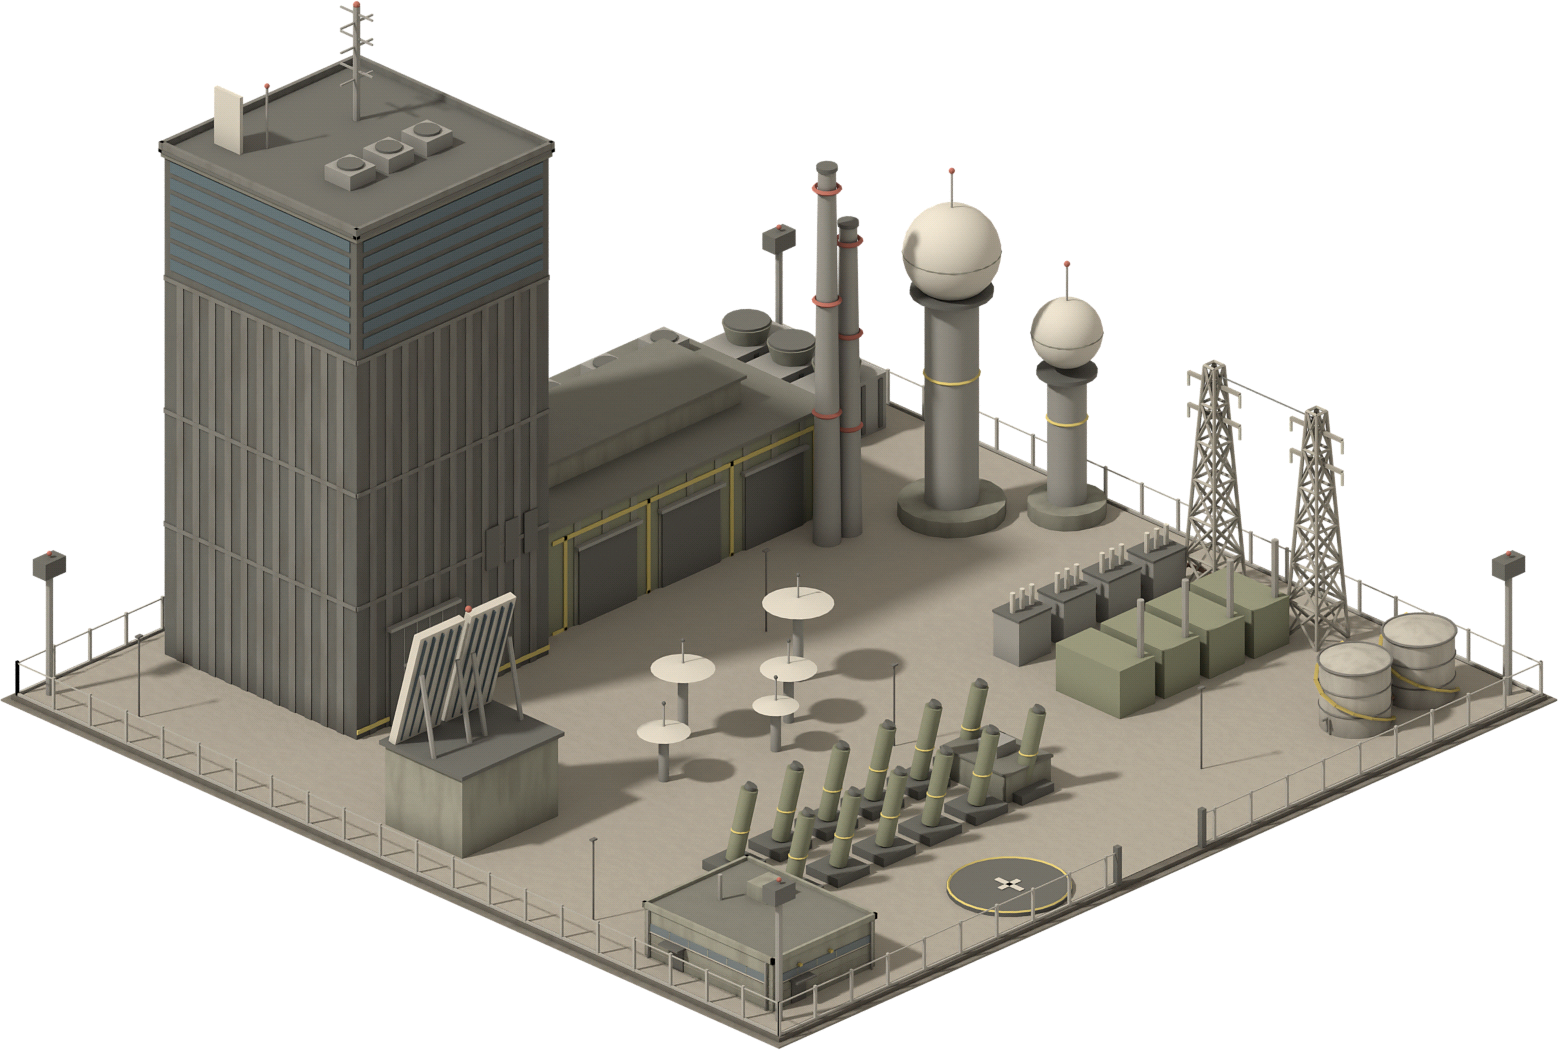
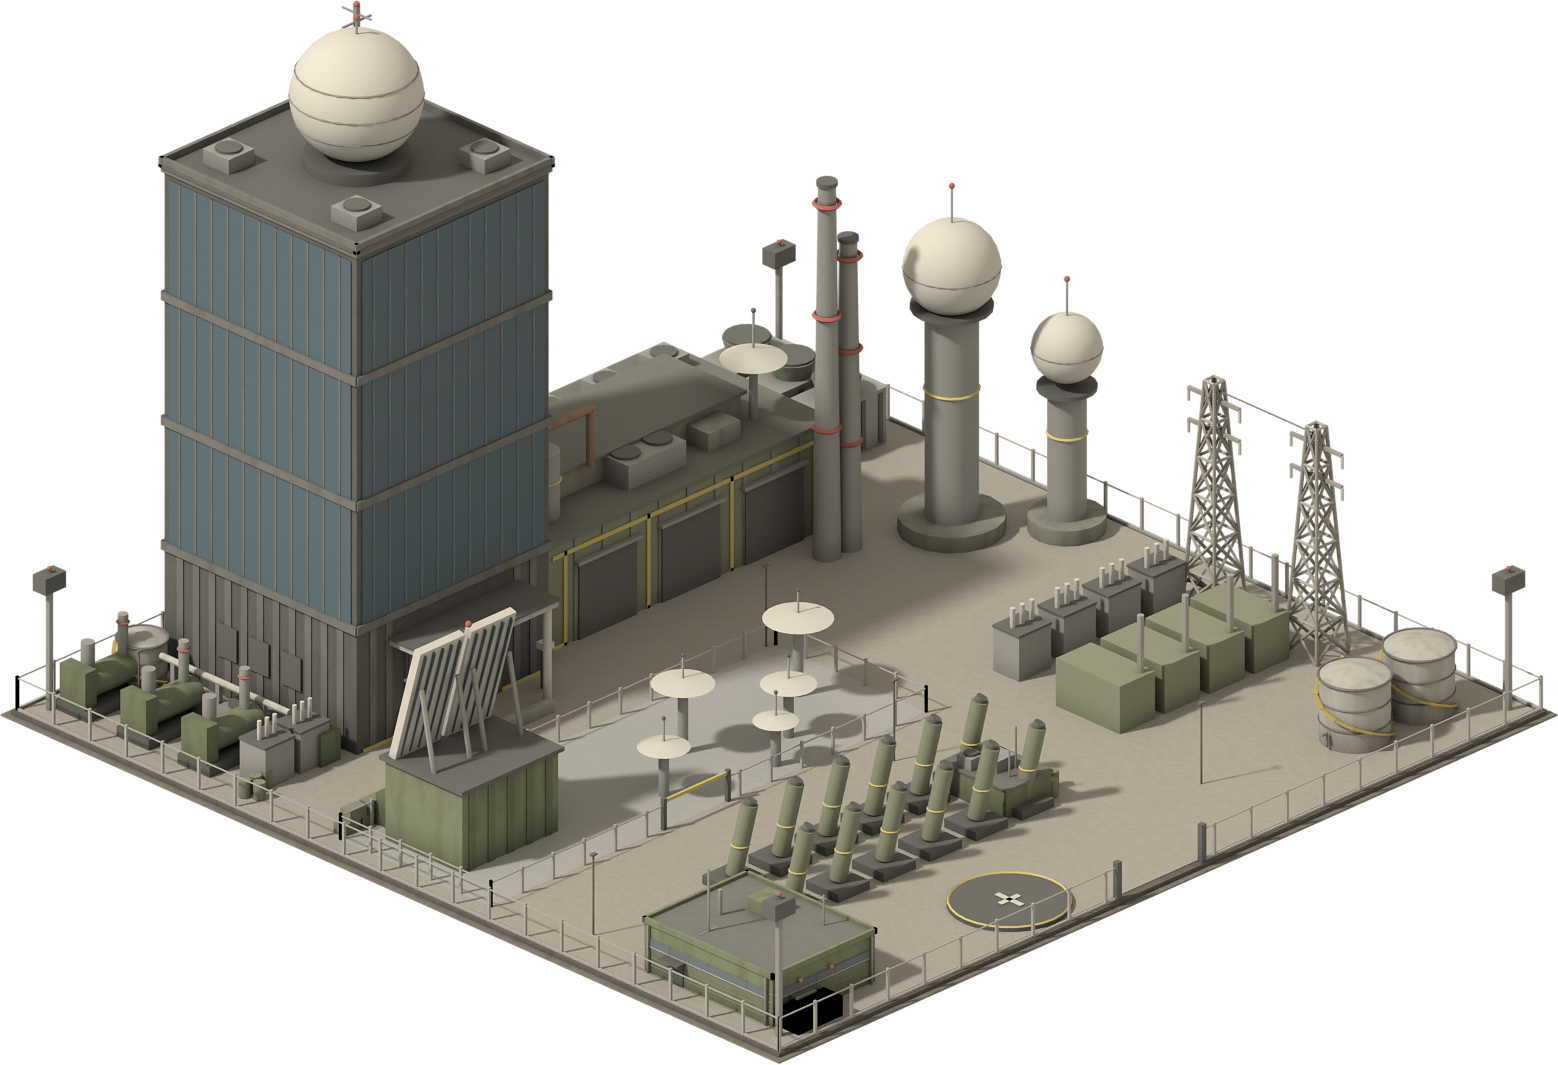
AI防衛システム工場：上3層ガラス張り・玄関・頂上のレドーム・組立棟の屋根の装置・アンテナ区画の柵・手前の建物を軍需の緑に・奥の設備
Claude-Session: https://claude.ai/code/session_018rzwRr8JkDqqPcQLfX2TTK

diff --git a/data/sprites_bl.js b/data/sprites_bl.js
@@ -3206,18 +3206,18 @@ window.GAME_DATA.spritesBL = {
    {
     "file": "../assets/bl/aiDefenseFactory_r0.png",
     "w": 779.0,
-    "h": 585.5,
+    "h": 600.0,
     "ax": 389.5,
-    "ay": 408.1,
+    "ay": 422.6,
     "fw": 12,
     "fd": 12
    },
    {
     "file": "../assets/bl/aiDefenseFactory_r1.png",
     "w": 779.0,
-    "h": 458.5,
+    "h": 486.0,
     "ax": 389.5,
-    "ay": 281.1,
+    "ay": 308.6,
     "fw": 12,
     "fd": 12
    },
@@ -3233,9 +3233,9 @@ window.GAME_DATA.spritesBL = {
    {
     "file": "../assets/bl/aiDefenseFactory_r3.png",
     "w": 779.0,
-    "h": 525.0,
+    "h": 532.5,
     "ax": 389.5,
-    "ay": 347.6,
+    "ay": 355.1,
     "fw": 12,
     "fd": 12
    }
